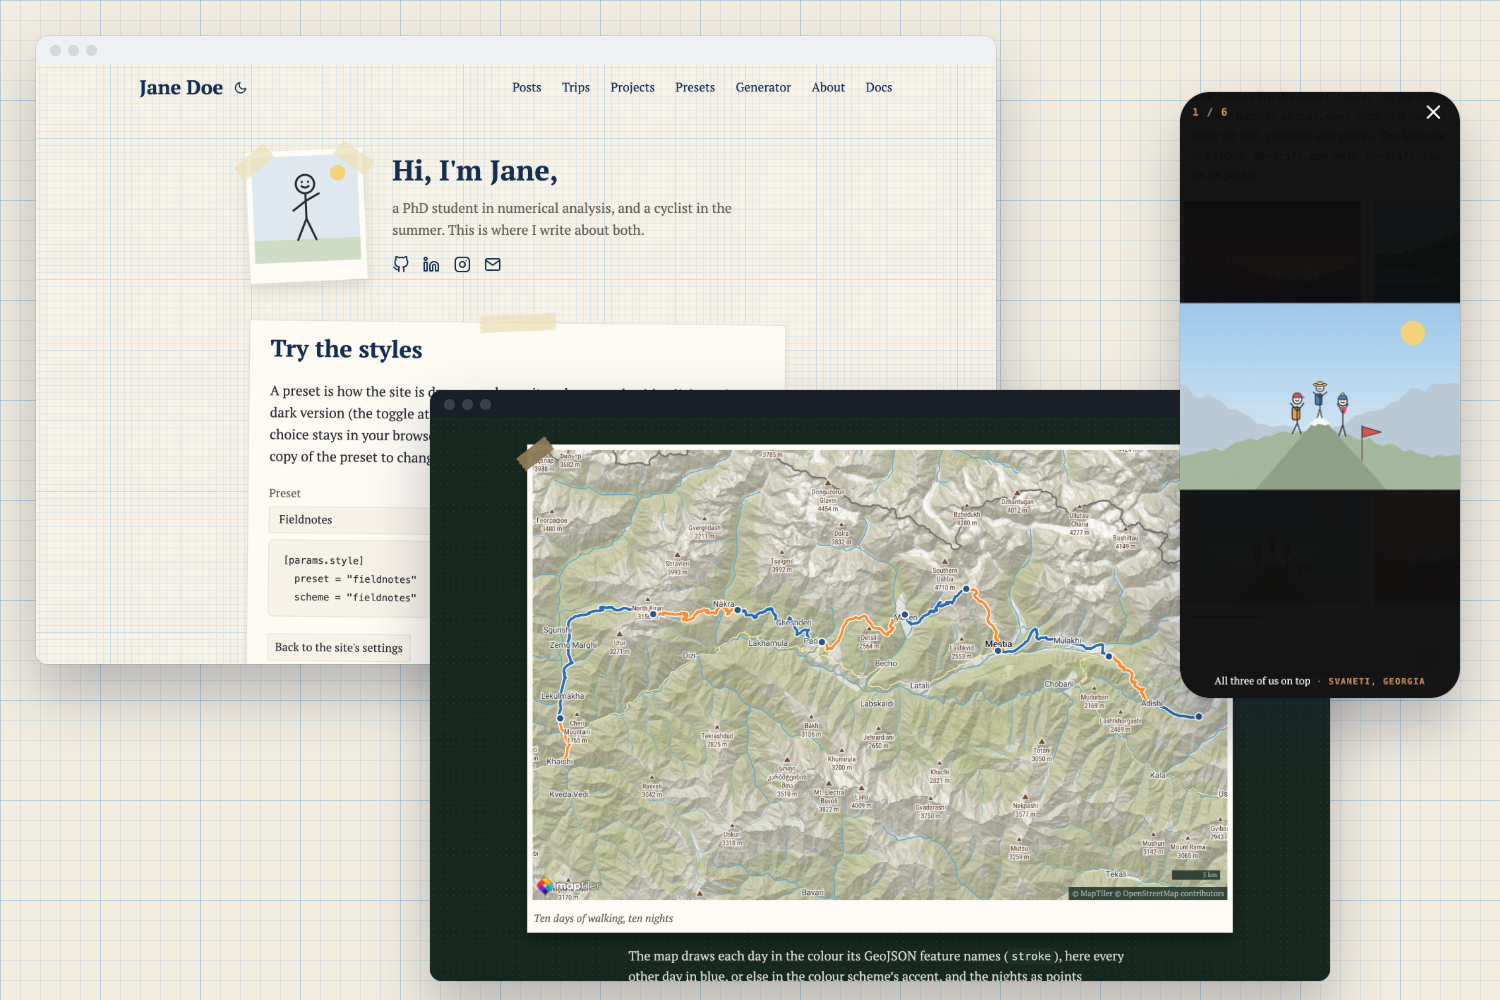
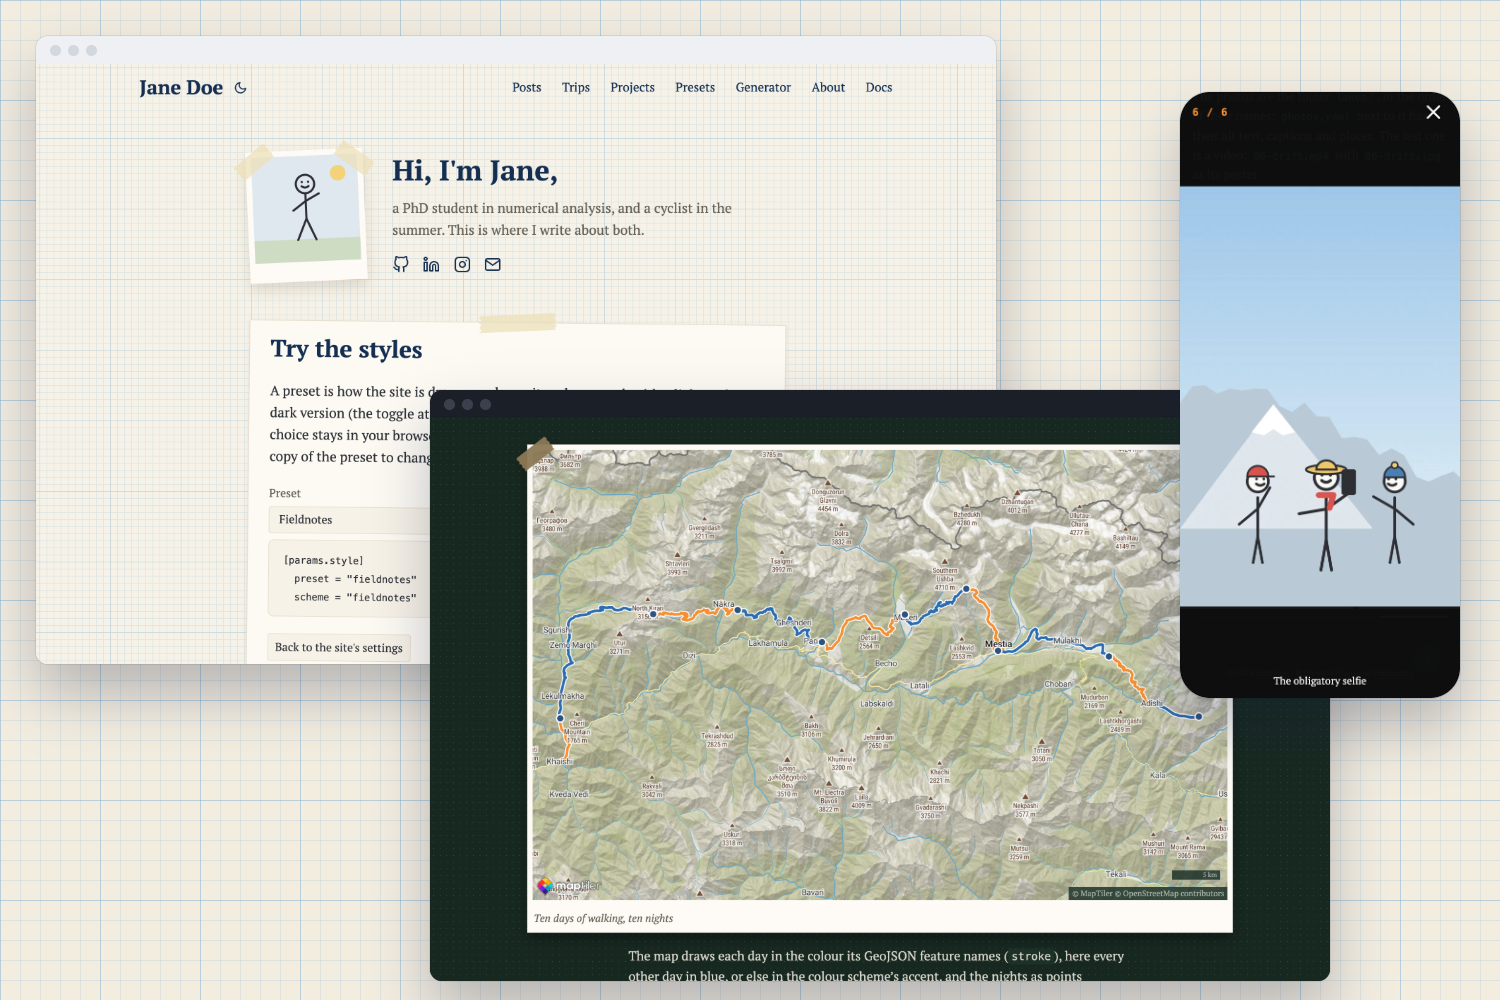
README screenshot: a portrait photo in the viewer
The README's picture is landscape again, the same layout as the docs and
Hugo's theme site. The phone in it now shows a portrait photo in the
viewer, filling the screen, instead of a landscape one.

Changed region(s): [[0.7667, 0.372, 0.9813, 0.62], [0.7667, 0.186, 0.9813, 0.341], [0.828, 0.651, 0.8587, 0.682]]

diff --git a/README.md b/README.md
@@ -8,7 +8,7 @@ server, no database and no build step of its own.
 [**Demo**](https://fieldnotes.maxfettinger.com/) · [**Docs**](https://fieldnotes.maxfettinger.com/docs/) ·
 [Getting started](https://fieldnotes.maxfettinger.com/docs/guide/getting-started/)
 
-![Fieldnotes: a home page on graph paper with a taped photo and a card, a trip page with a topographic map of the route, and the photo viewer on a phone](images/readme.jpg)
+![Fieldnotes: a home page on graph paper with a taped photo and a card, a trip page with a topographic map of the route, and the photo viewer on a phone showing a portrait photo](images/screenshot.png)
 
 ## What's in it
 
